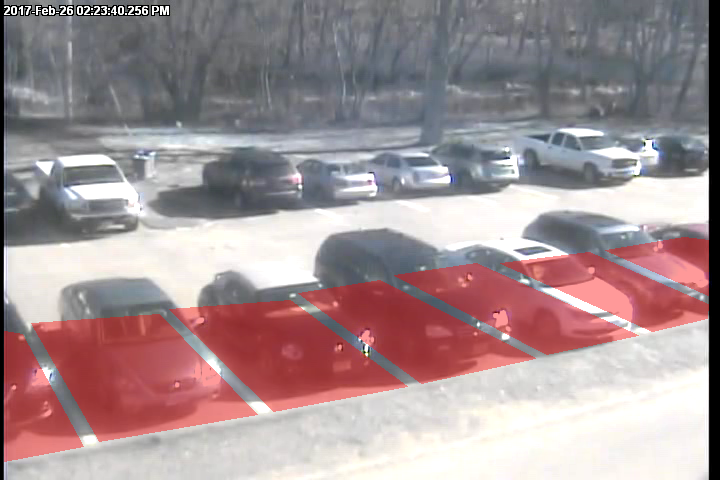
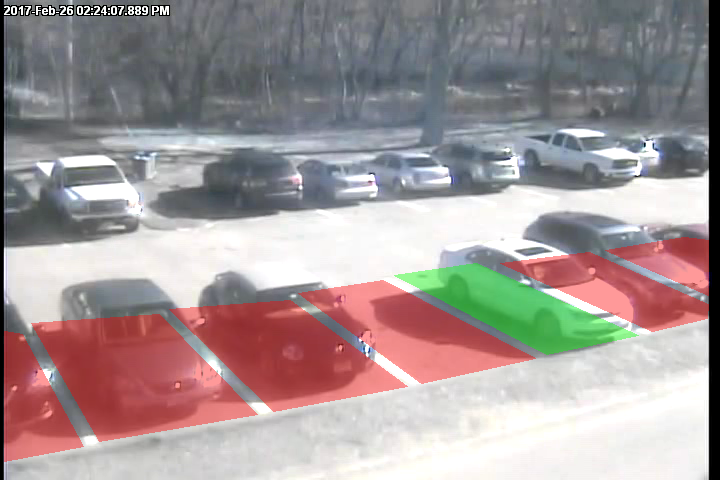
added all parking spots and detection thresholds

diff --git a/ocv_python/Server Stuff/car_detector.py b/ocv_python/Server Stuff/car_detector.py
@@ -12,42 +12,54 @@ import random
 
 class ParkingLot:
     # default constructor
-    def __init__(self, requestedLot):
+    def __init__(self, requestedLot, requestedFrame):
         self.lotName = requestedLot
 
         # pull image of lot from video file
-        self.viewOfLot = self.retrieveViewOfParkingLot(requestedLot)
+        self.viewOfLot = self.retrieveViewOfParkingLot(requestedLot, requestedFrame)
 
+        # use requestedLot to set number of parking spots and detected corner threshold
+        # used to determine whether spots are taken or empty
         if requestedLot == "camera19":
             self.parkingSpotCount = 10
+            self.cornerDetectionRatioThreshold = 0.07
         elif requestedLot == "camera24":
             self.parkingSpotCount = 7
+            self.cornerDetectionRatioThreshold = 0.04
         elif requestedLot == "camera32":
-            self.parkingSpotCount = 5
+            self.parkingSpotCount = 6
+            self.cornerDetectionRatioThreshold = 0.05
         elif requestedLot == "camera44":
             self.parkingSpotCount = 6
-            # used to determine whether spots are taken or empty
-            self.maximumDetectedCorners = 125
-
-        print(self.parkingSpotCount)
+            self.cornerDetectionRatioThreshold = 0.02
+        elif requestedLot == "camera50":
+            self.parkingSpotCount = 5
+            self.cornerDetectionRatioThreshold = 0.03
+        elif requestedLot == "plainsrdA":
+            self.parkingSpotCount = 4
+            self.cornerDetectionRatioThreshold = 0.065
+        elif requestedLot == "plainsrdC":
+            self.parkingSpotCount = 7
+            self.cornerDetectionRatioThreshold = 0.07
 
         # create parking spots
         self.parkingSpots = []
         for i in range(self.parkingSpotCount):
             self.parkingSpots.append(ParkingSpot(requestedLot, i))
 
-        # used to determine whether spots are taken or empty
-        self.maximumDetectedCorners = 125
-
     # needs to retrieve from video files on server
-    def retrieveViewOfParkingLot(self, requestedLot):
+    def retrieveViewOfParkingLot(self, requestedLot, requestedFrame):
+        # open the requestedLot's video file
         video = cv2.VideoCapture("./camera-footage/" + requestedLot + ".avi")
-        frameCount = int(video.get(cv2.CAP_PROP_FRAME_COUNT))
-        requestedFrame = random.randrange(frameCount)
 
-        video.set(1, requestedFrame)
+        # choose a random frame if 0 is provided
+        if requestedFrame == 0:
+            frameCount = int(video.get(cv2.CAP_PROP_FRAME_COUNT))
+            requestedFrame = random.randrange(frameCount)
+
+        # retrieve the requestedFrame
+        video.set(1, float(requestedFrame))
         success, frame = video.read()
-        cv2.imshow("test", frame)
 
         return frame
 
@@ -76,6 +88,12 @@ class ParkingLot:
 
             maskedImages[i] = maskedImages[i][startY:endY, startX:endX]
 
+            # count number of pixels in parking spot
+            minimumRGB = np.array([1, 1, 1], np.uint8)
+            maximumRGB = np.array([255, 255, 255], np.uint8)
+            pixels = cv2.inRange(maskedImages[i], minimumRGB, maximumRGB)
+            totalPixels = cv2.countNonZero(pixels)
+
             # make the image grayscale
             grayImage = cv2.cvtColor(maskedImages[i], cv2.COLOR_BGR2GRAY)
 
@@ -83,9 +101,10 @@ class ParkingLot:
             grayImage = np.float32(grayImage)
 
             # find corners in image
-            cornerDetectedImage = cv2.cornerHarris(grayImage, 3, 3, 0.10)
+            cornerDetectedImage = cv2.cornerHarris(grayImage, 3, 3, 0.1)
 
-            # mark red pixels as corners; decimal is threshold for an optimal value, it may vary depending on the image.
+            # mark red pixels as corners
+            # decimal is threshold for an optimal value, it may vary depending on the image.
             maskedImages[i][cornerDetectedImage > 0.0005 * cornerDetectedImage.max()] = [0, 0, 255]
 
             # check number of red pixels (corners)
@@ -96,16 +115,18 @@ class ParkingLot:
             maskedImages[i] = cv2.bitwise_and(maskedImages[i], maskedImages[i], mask = redPixels)
 
             redPixels = cv2.countNonZero(redPixels)
-            print("the number of red pixels for spot " + str(i) + " in image " + str(i)+ " is: " + str(redPixels))
+            redPixelRatio = redPixels/totalPixels
+
+            print("the number of red pixels for spot " + str(i) + " in image " + str(i)+ " is: " + str(redPixels) + " with a ratio of " + str(redPixelRatio))
 
             # set the status of the parking spot to 1 if occupied or 0 if not
-            if redPixels < self.maximumDetectedCorners:
+            if redPixelRatio < self.cornerDetectionRatioThreshold:
                 self.parkingSpots[i].parkingSpotState = "open";
             else:
                 self.parkingSpots[i].parkingSpotState = "taken";
 
             # display the result
-            cv2.imshow('c44_' + str(i), maskedImages[i])
+            # cv2.imshow('c44_' + str(i), maskedImages[i])
 
         # make a deep copy of the source image
         parkingLotView = np.copy(self.viewOfLot)
@@ -127,10 +148,9 @@ class ParkingLot:
         gamma = 0
 
         # create an alpha-blended image
-        translucentView = cv2.addWeighted(self.viewOfLot, alpha, parkingLotView, beta, gamma)
-        self.viewOfLot = translucentView
+        self.viewOfLot = cv2.addWeighted(self.viewOfLot, alpha, parkingLotView, beta, gamma)
 
-        cv2.imshow("final view_" + str(i), self.viewOfLot)
+        # cv2.imshow("final view_" + str(i), self.viewOfLot)
         cv2.imwrite(self.lotName + ".png", self.viewOfLot)
 
         if cv2.waitKey(0) & 0xff == 27:
@@ -141,20 +161,7 @@ class ParkingSpot:
     def __init__(self, requestedLot, requestedSpot):
         # chooses the right vertices for the parking spot
         # define vertices where parking spots are, vertices starting at top-left corner going clockwise
-        if requestedLot == "camera44":
-            if requestedSpot == 0:
-                self.spotVertices = [[(0, 286), (70, 287), (92, 158), (0, 161)]]
-            elif requestedSpot == 1:
-                self.spotVertices = [[(100, 155), (220, 155), (213, 285), (80, 287)]]
-            elif requestedSpot == 2:
-                self.spotVertices = [[(231, 155), (355, 162), (365, 289), (223, 286)]]
-            elif requestedSpot == 3:
-                self.spotVertices = [[(362, 162), (482, 173), (513, 298), (376, 293)]]
-            elif requestedSpot == 4:
-                self.spotVertices = [[(493, 173), (605, 180), (651, 310), (526, 300)]]
-            elif requestedSpot == 5:
-                self.spotVertices = [[(615, 180), (710, 190), (710, 310), (664, 310)]]
-        elif requestedLot == "camera19":
+        if requestedLot == "camera19":
             if requestedSpot == 0:
                 self.spotVertices = [[(8, 291), (57, 298), (8, 315)]]
             elif requestedSpot == 1:
@@ -183,14 +190,76 @@ class ParkingSpot:
             elif requestedSpot == 2:
                 self.spotVertices = [[(169, 309), (290, 300), (407, 386), (273, 411)]]
             elif requestedSpot == 3:
-                self.spotVertices = [[(298, 293), (380, 280), (535, 358), (421, 383)]]
+                self.spotVertices = [[(298, 293), (383, 280), (535, 358), (421, 383)]]
             elif requestedSpot == 4:
                 self.spotVertices = [[(394, 275), (476, 263), (638, 335), (546, 354)]]
             elif requestedSpot == 5:
                 self.spotVertices = [[(500, 263), (589, 252), (708, 304), (707, 318), (652, 331)]]
             elif requestedSpot == 6:
                 self.spotVertices = [[(605, 250), (684, 237), (708, 240), (708, 295)]]
-
+        elif requestedLot == "camera32":
+            if requestedSpot == 0:
+                self.spotVertices = [[(6, 236), (77, 246), (8, 301)]]
+            elif requestedSpot == 1:
+                self.spotVertices = [[(85, 244), (178, 246), (128, 313), (10, 305)]]
+            elif requestedSpot == 2:
+                self.spotVertices = [[(185, 247), (278, 249), (263, 310), (140, 313)]]
+            elif requestedSpot == 3:
+                self.spotVertices = [[(283, 246), (380, 247), (402, 313), (271, 317)]]
+            elif requestedSpot == 4:
+                self.spotVertices = [[(387, 248), (483, 250), (533, 316), (411, 314)]]
+            elif requestedSpot == 5:
+                self.spotVertices = [[(487, 250), (577, 247), (663, 315), (545, 316)]]
+            elif requestedSpot == 6:
+                self.spotVertices = [[(587, 246), (660, 245), (711, 260), (711, 312), (672, 311)]]
+        elif requestedLot == "camera44":
+            if requestedSpot == 0:
+                self.spotVertices = [[(0, 286), (70, 287), (92, 158), (0, 161)]]
+            elif requestedSpot == 1:
+                self.spotVertices = [[(100, 155), (220, 155), (213, 285), (80, 287)]]
+            elif requestedSpot == 2:
+                self.spotVertices = [[(231, 155), (355, 162), (365, 289), (223, 286)]]
+            elif requestedSpot == 3:
+                self.spotVertices = [[(362, 162), (482, 173), (513, 298), (376, 293)]]
+            elif requestedSpot == 4:
+                self.spotVertices = [[(493, 173), (605, 180), (651, 310), (526, 300)]]
+            elif requestedSpot == 5:
+                self.spotVertices = [[(615, 180), (710, 190), (710, 310), (664, 310)]]
+        elif requestedLot == "camera50":
+            if requestedSpot == 0:
+                self.spotVertices = [[(171, 348), (489, 308), (524, 382), (144, 429)]]
+            elif requestedSpot == 1:
+                self.spotVertices = [[(195, 281), (464, 246), (488, 300), (171, 341)]]
+            elif requestedSpot == 2:
+                self.spotVertices = [[(209, 233), (442, 203), (461, 242), (196, 277)]]
+            elif requestedSpot == 3:
+                self.spotVertices = [[(220, 190), (427, 169), (439, 199), (210, 228)]]
+            elif requestedSpot == 4:
+                self.spotVertices = [[(236, 158), (418, 142), (427, 165), (226, 177)]]
+        elif requestedLot == "plainsrdA":
+            if requestedSpot == 0:
+                self.spotVertices = [[(377, 173), (457, 170), (502, 245), (386, 249)]]
+            elif requestedSpot == 1:
+                self.spotVertices = [[(465, 169), (538, 165), (609, 235), (510, 242)]]
+            elif requestedSpot == 2:
+                self.spotVertices = [[(545, 164), (610, 163), (693, 229), (617, 235)]]
+            elif requestedSpot == 3:
+                self.spotVertices = [[(615, 163), (672, 165), (719, 192), (719, 224), (698, 228)]]
+        elif requestedLot == "plainsrdC":
+            if requestedSpot == 0:
+                self.spotVertices = [[(517, 166), (599, 182), (578, 266), (451, 238)]]
+            elif requestedSpot == 1:
+                self.spotVertices = [[(439, 155), (510, 165), (442, 238), (350, 219)]]
+            elif requestedSpot == 2:
+                self.spotVertices = [[(370, 147), (430, 154), (344, 215), (271, 204)]]
+            elif requestedSpot == 3:
+                self.spotVertices = [[(307, 142), (362, 145), (265, 202), (204, 193)]]
+            elif requestedSpot == 4:
+                self.spotVertices = [[(261, 137), (298, 142), (199, 191), (161, 185)]]
+            elif requestedSpot == 5:
+                self.spotVertices = [[(217, 133), (251, 137), (156, 183), (125, 178)]]
+            elif requestedSpot == 6:
+                self.spotVertices = [[(588, 84), (624, 90), (622, 102), (578, 95)]]
 
         # find bounding box to use for cropping
         self.boundingBox = self.findBoundingBox()
@@ -198,7 +267,7 @@ class ParkingSpot:
         # default to being taken by a car
         self.parkingSpotState = "taken";
 
-    # finds the minimum and maximum X and Y points contained in the parking spot boundary vector
+    # finds the minimum and maximum X and Y points contained in the parking spot vertices vector
     def findBoundingBox(self):
         for i in range(len(self.spotVertices[0])):
             if i == 0:
@@ -220,9 +289,11 @@ class ParkingSpot:
 
         return boundingBox
 
-def main(requestedLot):
-    parkingLot = ParkingLot(requestedLot)
+def main(requestedLot, requestedFrame):
+    parkingLot = ParkingLot(requestedLot, requestedFrame)
     parkingLot.checkParkingSpots()
 
+    return 0
+
 if __name__ == "__main__":
-    main(sys.argv[1])
+    main(sys.argv[1], sys.argv[2])
